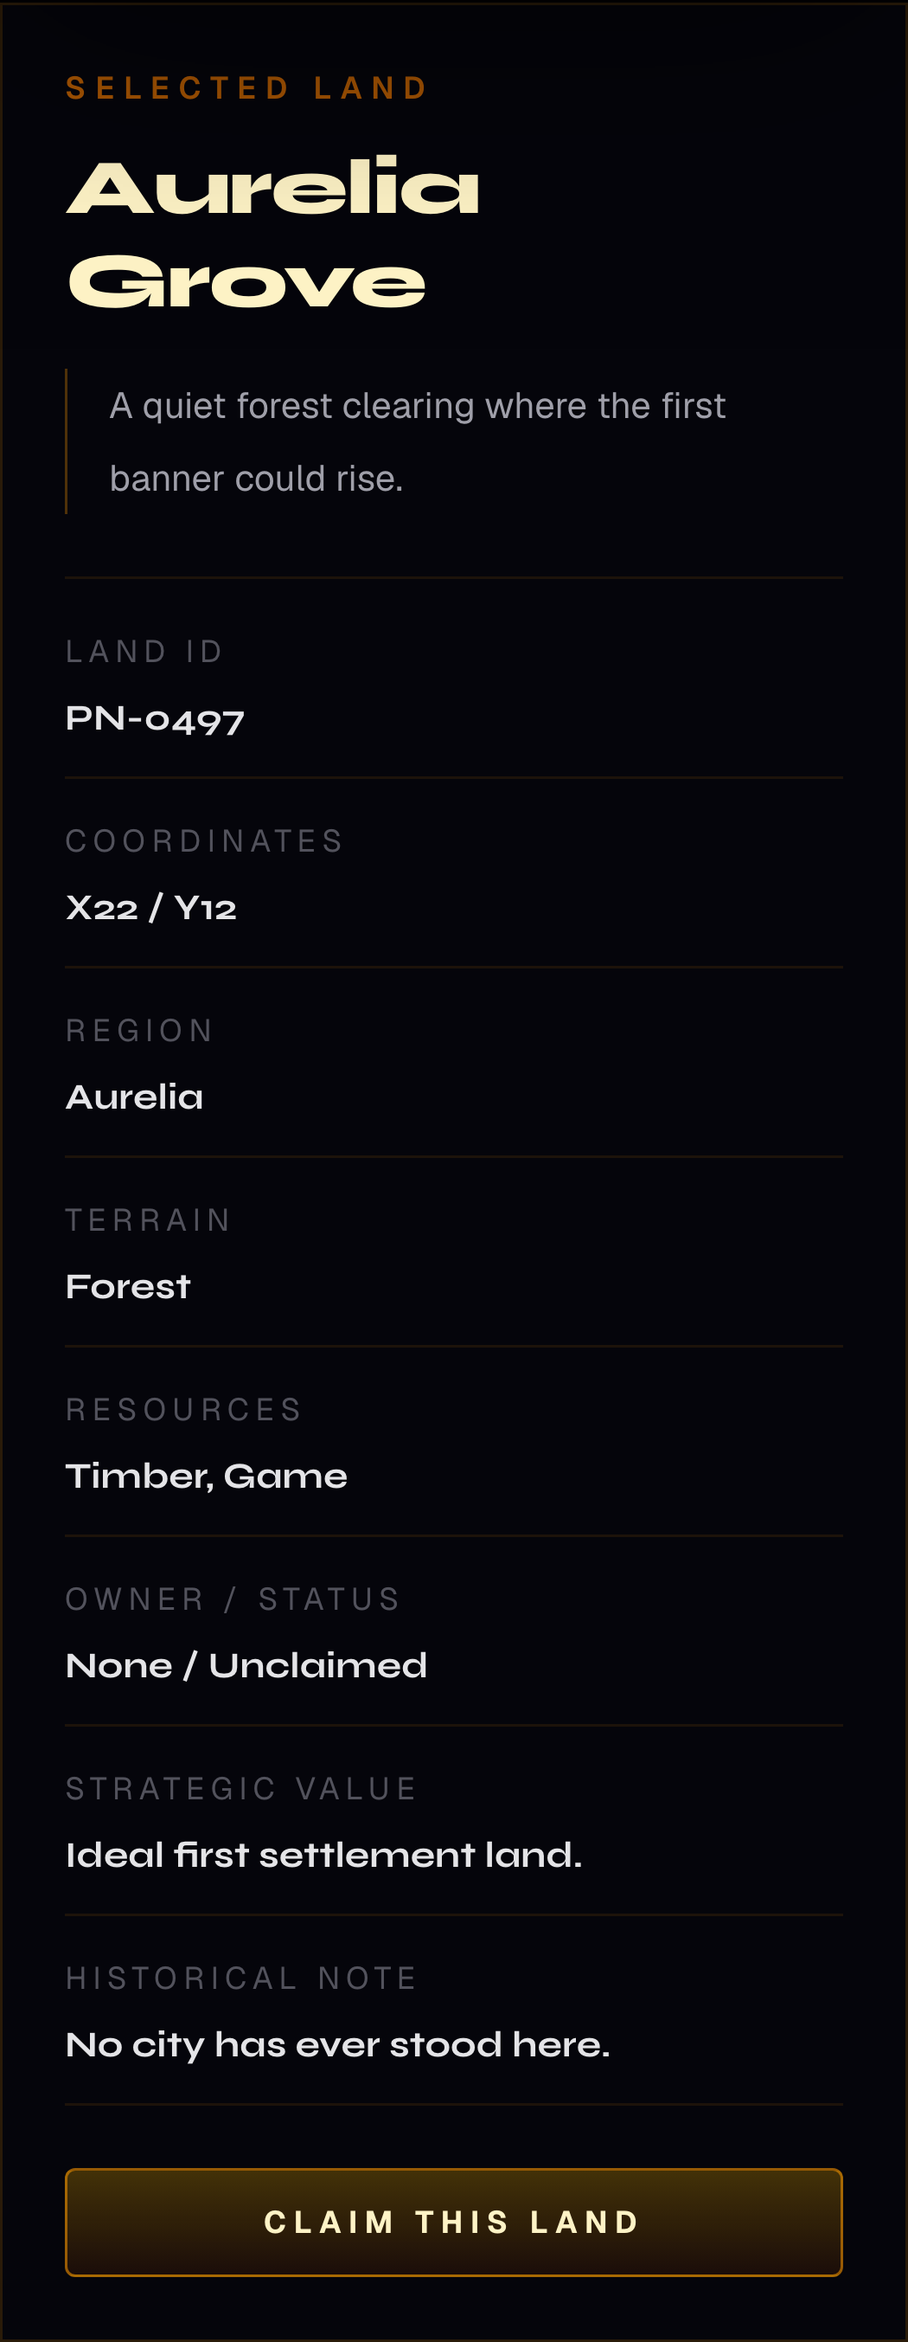
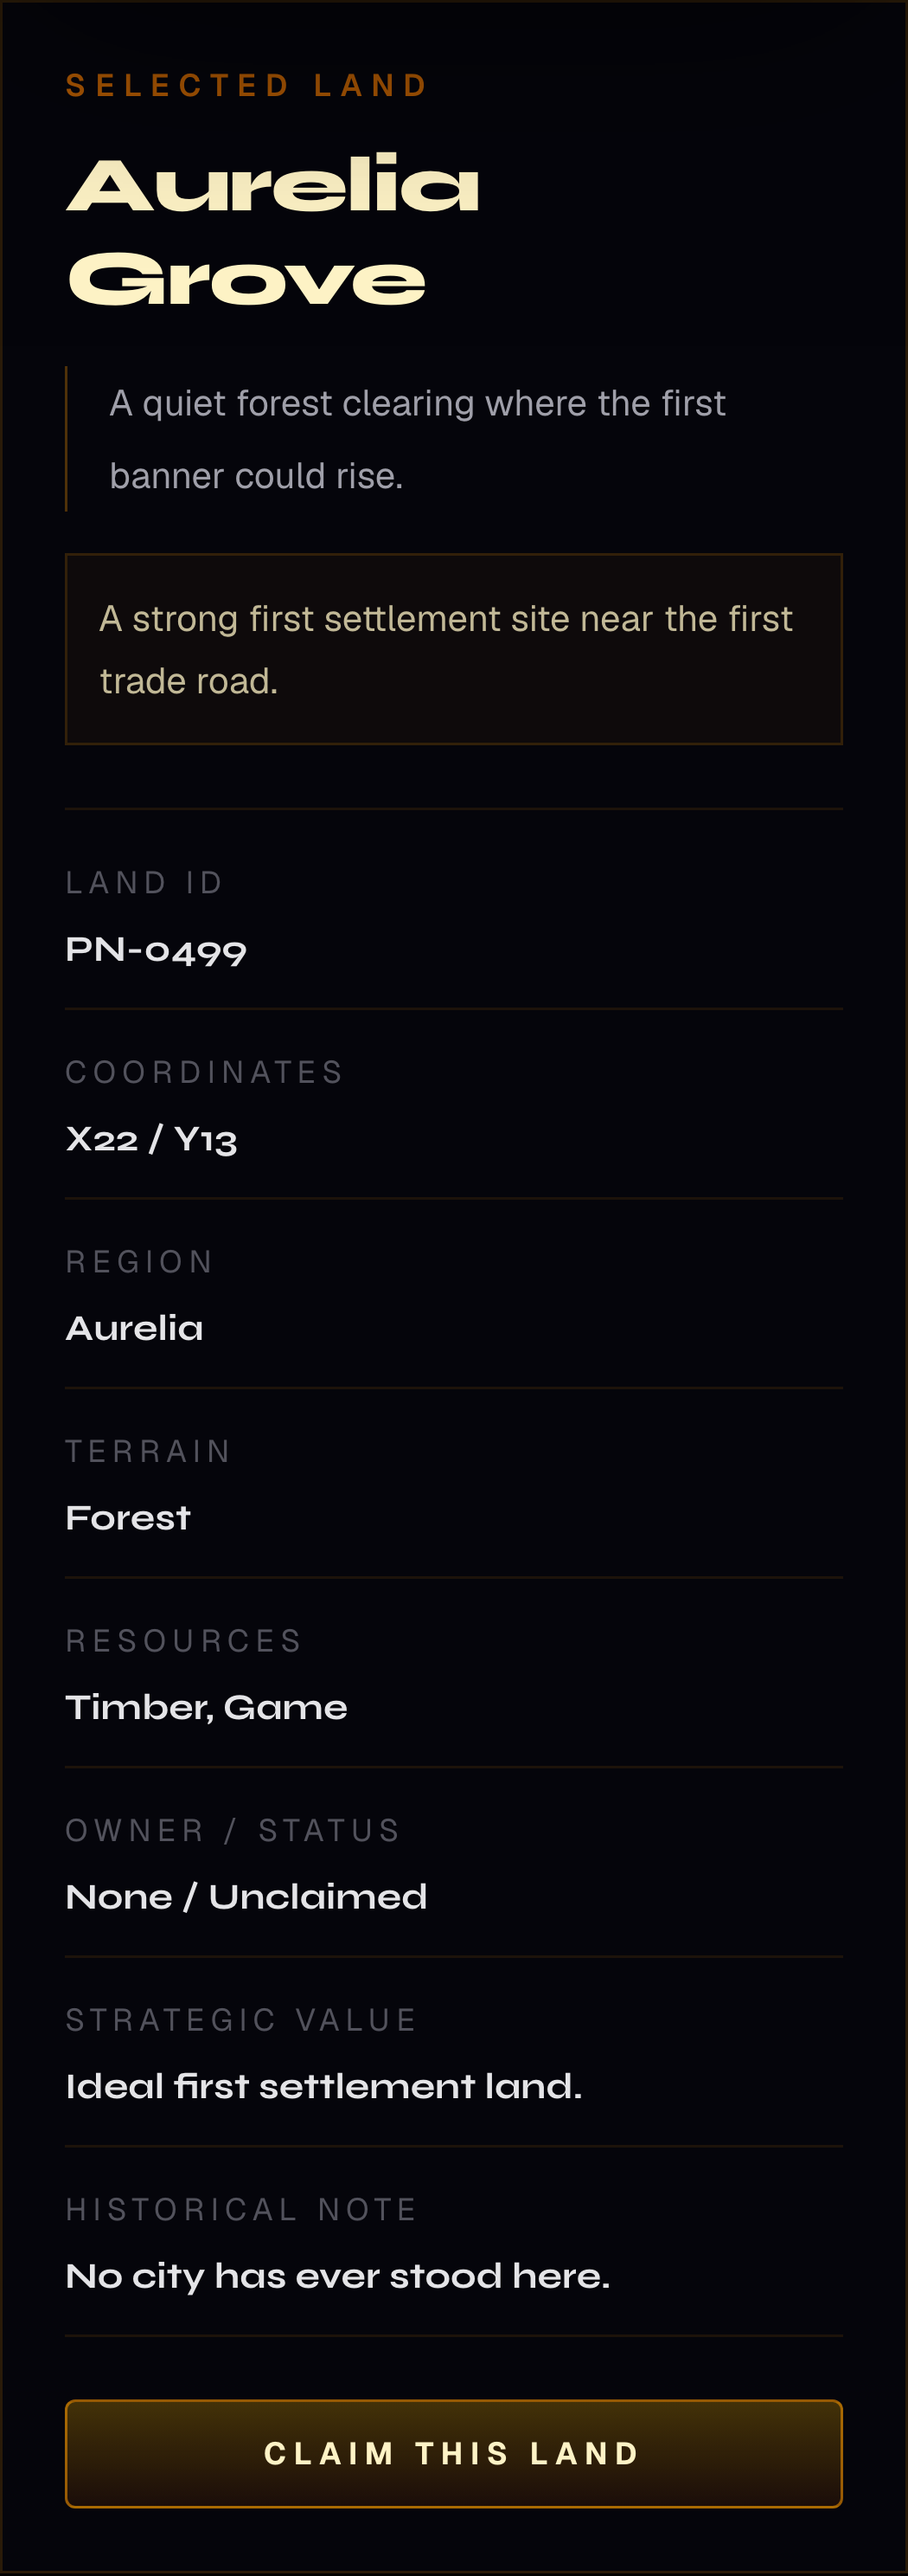
Upgrade world map atlas experience

diff --git a/app/world/page.tsx b/app/world/page.tsx
@@ -23,14 +23,15 @@ type MapTile = {
   resources: string[];
   landName: string;
   cinematicLine: string;
+  contextLine: string;
   strategicValue: string;
   historicalNote: string;
   starter: boolean;
   claimed: boolean;
 };
 
-const GRID_WIDTH = 22;
-const GRID_HEIGHT = 14;
+const GRID_WIDTH = 18;
+const GRID_HEIGHT = 12;
 
 const TERRAIN_RESOURCES: Record<Terrain, string[]> = {
   plains: ["Food", "Timber"],
@@ -71,11 +72,11 @@ const REGION_BORDER: Record<Region, string> = {
 };
 
 const REGION_LABELS = [
-  { id: "north-frontier", name: "North Frontier", left: "29%", top: "17%" },
-  { id: "crownlands", name: "Crownlands", left: "75%", top: "22%" },
-  { id: "aurelia", name: "Aurelia", left: "50%", top: "48%" },
-  { id: "iron-coast", name: "Iron Coast", left: "17%", top: "66%" },
-  { id: "ember-basin", name: "Ember Basin", left: "58%", top: "82%" },
+  { id: "north-frontier", name: "North Frontier", left: "28%", top: "20%" },
+  { id: "crownlands", name: "Crownlands", left: "78%", top: "26%" },
+  { id: "aurelia", name: "Aurelia", left: "52%", top: "51%" },
+  { id: "iron-coast", name: "Iron Coast", left: "18%", top: "72%" },
+  { id: "ember-basin", name: "Ember Basin", left: "63%", top: "84%" },
 ];
 
 const MAP_ROUTES = [
@@ -88,6 +89,42 @@ const MAP_RIVERS = [
   "M 404 38 C 388 112 420 168 386 230 S 328 330 366 430",
   "M 636 86 C 594 132 584 190 614 248 S 680 334 644 424",
 ];
+
+const MAP_CONTOURS = [
+  "M 42 86 C 146 42 292 76 366 130 S 548 188 720 138",
+  "M 74 360 C 178 302 304 332 418 284 S 598 230 734 268",
+  "M 216 458 C 310 392 404 406 508 374 S 646 340 722 386",
+];
+
+const SECTOR_REGION_ZONES = [
+  {
+    id: "north-frontier",
+    className: "left-[16%] top-[4%] h-[34%] w-[48%] border-zinc-300/10 bg-zinc-300/[0.045]",
+    clipPath: "polygon(0 18%, 34% 0, 88% 12%, 100% 68%, 62% 96%, 10% 78%)",
+  },
+  {
+    id: "iron-coast",
+    className: "left-[0%] top-[24%] h-[72%] w-[33%] border-slate-300/10 bg-slate-300/[0.04]",
+    clipPath: "polygon(0 0, 72% 8%, 100% 48%, 72% 98%, 8% 86%, 0 42%)",
+  },
+  {
+    id: "aurelia",
+    className: "left-[28%] top-[30%] h-[42%] w-[48%] border-amber-400/14 bg-amber-500/[0.055]",
+    clipPath: "polygon(10% 18%, 56% 0, 100% 24%, 84% 78%, 36% 100%, 0 64%)",
+  },
+  {
+    id: "crownlands",
+    className: "left-[63%] top-[8%] h-[48%] w-[34%] border-amber-200/14 bg-amber-200/[0.055]",
+    clipPath: "polygon(16% 8%, 80% 0, 100% 42%, 78% 90%, 22% 100%, 0 50%)",
+  },
+  {
+    id: "ember-basin",
+    className: "left-[36%] top-[62%] h-[34%] w-[58%] border-orange-300/10 bg-orange-300/[0.04]",
+    clipPath: "polygon(4% 24%, 42% 0, 98% 16%, 88% 82%, 42% 100%, 0 74%)",
+  },
+];
+
+const STARTER_COORDS = new Set(["8,5", "9,5", "10,5", "8,6", "10,6", "11,6"]);
 
 const ATLAS_REGIONS = [
   {
@@ -146,22 +183,22 @@ const ATLAS_LAND_MARKS = Array.from({ length: 260 }, (_, index) => {
 });
 
 function getRegion(x: number, y: number): Region {
-  if (x >= 15 && y <= 5) return "Crownlands";
-  if (y <= 3 || (x <= 7 && y <= 5)) return "North Frontier";
-  if (x <= 4 && y >= 5) return "Iron Coast";
-  if (y >= 10 || (x >= 10 && y >= 8)) return "Ember Basin";
+  if (x >= 13 && y <= 4) return "Crownlands";
+  if (y <= 2 || (x <= 6 && y <= 4)) return "North Frontier";
+  if (x <= 3 && y >= 3) return "Iron Coast";
+  if (y >= 9 || (x >= 9 && y >= 7)) return "Ember Basin";
   return "Aurelia";
 }
 
 function getTerrain(x: number, y: number, region: Region): Terrain {
-  if ((x === 9 && y === 6) || (x === 13 && y === 9) || (x === 17 && y === 4)) return "ruins";
-  if (x <= 2 || (region === "Iron Coast" && x <= 5 && y % 2 === 0)) return "coast";
-  if (y <= 1 || x >= 20) return "coast";
-  if (region === "Crownlands") return x > 17 && y < 4 ? "crownland" : "mountain";
-  if (region === "North Frontier") return y < 3 || (x + y) % 4 === 0 ? "mountain" : "forest";
-  if (region === "Iron Coast") return x <= 4 ? "coast" : "forest";
-  if (region === "Ember Basin") return (x + y) % 3 === 0 ? "basin" : "plains";
-  if ((x >= 7 && x <= 9 && y >= 3 && y <= 7) || (x === 12 && y === 5)) return "forest";
+  if ((x === 7 && y === 5) || (x === 11 && y === 8) || (x === 14 && y === 4)) return "ruins";
+  if (x <= 1 || (region === "Iron Coast" && x <= 3)) return "coast";
+  if (y === 0 || x === GRID_WIDTH - 1) return "coast";
+  if (region === "Crownlands") return x >= 15 && y <= 3 ? "crownland" : "mountain";
+  if (region === "North Frontier") return y <= 1 || x + y < 7 ? "mountain" : "forest";
+  if (region === "Iron Coast") return y >= 8 ? "coast" : "forest";
+  if (region === "Ember Basin") return y >= 10 || x >= 12 ? "basin" : "plains";
+  if ((x >= 5 && x <= 8 && y >= 3 && y <= 6) || (x >= 9 && x <= 11 && y === 4)) return "forest";
   return "plains";
 }
 
@@ -194,6 +231,17 @@ function getCinematicLine(region: Region, terrain: Terrain) {
   return "Unwritten ground on the edge of a rising world.";
 }
 
+function getContextLine(region: Region, terrain: Terrain, starter: boolean) {
+  if (starter) return "A strong first settlement site near the first trade road.";
+  if (terrain === "coast") return "A future port position on the edge of continental routes.";
+  if (terrain === "mountain") return "A defensive holdfast above contested frontier passes.";
+  if (terrain === "crownland") return "A prestige claim near the old political center.";
+  if (terrain === "basin") return "A resource pocket likely to matter when borders expand.";
+  if (terrain === "ruins") return "A risky claim with relic value and future conflict potential.";
+  if (region === "Aurelia") return "Central ground with clean expansion paths into nearby regions.";
+  return "Frontier land with room to grow into a regional power.";
+}
+
 function getStrategicValue(terrain: Terrain, starter: boolean, claimed: boolean) {
   if (claimed) return "Already controlled by another founder.";
   if (starter) return "Ideal first settlement land.";
@@ -220,7 +268,7 @@ function buildTiles(): MapTile[] {
     const coordinates = `X${x + 14} / Y${y + 8}`;
     const landId = `PN-${String(401 + index).padStart(4, "0")}`;
     const claimed = (x * 7 + y * 11) % 23 === 0;
-    const starter = !claimed && region === "Aurelia" && (terrain === "plains" || terrain === "forest");
+    const starter = !claimed && STARTER_COORDS.has(`${x},${y}`);
 
     return {
       id: `world-tile-${index}`,
@@ -233,6 +281,7 @@ function buildTiles(): MapTile[] {
       resources: TERRAIN_RESOURCES[terrain],
       landName: getLandName(region, terrain),
       cinematicLine: getCinematicLine(region, terrain),
+      contextLine: getContextLine(region, terrain, starter),
       strategicValue: getStrategicValue(terrain, starter, claimed),
       historicalNote: getHistoricalNote(region, terrain, claimed),
       starter,
@@ -521,33 +570,54 @@ export default function WorldPage() {
               <div className="flex flex-col justify-between gap-3 border-b border-amber-500/10 pb-4 sm:flex-row sm:items-end">
                 <div>
                   <p className="text-[10px] font-bold uppercase tracking-[0.28em] text-amber-600/80">
-                    Playable Sector
+                    Active Sector
                   </p>
                   <p className="text-xs font-semibold uppercase tracking-[0.3em] text-amber-200/80">
                     Sector 04 / Aurelia Frontier
                   </p>
                   <p className="mt-2 text-xs uppercase tracking-[0.22em] text-zinc-600">
-                    Choose one land inside the highlighted sector.
+                    216 visible lands from a 10,000-land world.
+                  </p>
+                  <p className="mt-3 text-sm leading-7 text-zinc-400">
+                    Choose a highlighted founder land to begin.
                   </p>
                 </div>
                 <div className="flex flex-wrap gap-3 text-[10px] uppercase tracking-[0.2em] text-zinc-600">
-                  <span className="border border-amber-500/15 px-2 py-1">216 lands</span>
+                  <span className="border border-amber-500/15 px-2 py-1">216 visible lands</span>
+                  <span className="border border-amber-500/15 px-2 py-1">10,000 total lands</span>
                   <span className="border border-amber-500/15 px-2 py-1">5 regions</span>
                 </div>
               </div>
 
               <div className="mt-5 overflow-x-auto pb-2">
-                <div className="relative min-w-[760px] overflow-hidden border border-amber-500/20 bg-[#030306] p-3 shadow-[inset_0_0_60px_rgba(0,0,0,0.55)]">
+                <div className="relative min-w-[680px] overflow-hidden border border-amber-500/20 bg-[#030306] p-3 shadow-[inset_0_0_60px_rgba(0,0,0,0.55)]">
                   <div
                     aria-hidden
                     className="pointer-events-none absolute inset-3 border border-amber-500/10"
                   />
+                  {SECTOR_REGION_ZONES.map((zone) => (
+                    <div
+                      key={zone.id}
+                      aria-hidden
+                      className={`pointer-events-none absolute border ${zone.className}`}
+                      style={{ clipPath: zone.clipPath }}
+                    />
+                  ))}
                   <svg
                     aria-hidden
                     className="pointer-events-none absolute inset-3 h-[calc(100%-1.5rem)] w-[calc(100%-1.5rem)]"
                     viewBox="0 0 760 484"
                     preserveAspectRatio="none"
                   >
+                    {MAP_CONTOURS.map((path) => (
+                      <path
+                        key={path}
+                        d={path}
+                        fill="none"
+                        stroke="rgba(245,222,179,0.08)"
+                        strokeWidth="2"
+                      />
+                    ))}
                     {MAP_RIVERS.map((path) => (
                       <path
                         key={path}
@@ -577,7 +647,7 @@ export default function WorldPage() {
                       {label.name}
                     </span>
                   ))}
-                  <div className="relative z-10 grid grid-cols-[repeat(22,minmax(0,1fr))] gap-px">
+                  <div className="relative z-10 grid grid-cols-[repeat(18,minmax(0,1fr))] gap-px">
                     {tiles.map((tile) => {
                       const tileOwnedByYou = demoState.claimedLandId === tile.id && demoState.claimedLand;
                       const tileClaimed = tile.claimed || tileOwnedByYou;
@@ -609,7 +679,7 @@ export default function WorldPage() {
                           }`}
                         >
                           {tile.starter && !tileClaimed ? (
-                            <span className="pointer-events-none absolute right-0.5 top-0.5 h-1.5 w-1.5 animate-pulse rounded-full bg-amber-300/80 shadow-[0_0_10px_rgba(251,191,36,0.45)]" />
+                            <span className="pointer-events-none absolute right-0.5 top-0.5 h-1.5 w-1.5 rounded-full bg-amber-300/90 shadow-[0_0_12px_rgba(251,191,36,0.55)]" />
                           ) : null}
                           {tileOwnedByYou ? (
                             <span className="absolute inset-0 flex items-center justify-center bg-amber-500/10 text-[8px] font-bold uppercase tracking-[0.2em] text-amber-100">
@@ -619,6 +689,20 @@ export default function WorldPage() {
                         </button>
                       );
                     })}
+                  </div>
+                  <div className="relative z-20 mt-3 grid gap-2 border border-amber-500/10 bg-[#030306]/85 p-3 text-[9px] uppercase tracking-[0.18em] text-zinc-500 sm:grid-cols-5">
+                    {[
+                      ["Founder land", "bg-amber-300/90 shadow-[0_0_10px_rgba(251,191,36,0.45)]"],
+                      ["Frontier", "bg-zinc-300/25"],
+                      ["Crownlands", "bg-amber-200/30"],
+                      ["Route", "bg-amber-400/50"],
+                      ["Unclaimed land", "bg-zinc-500/30"],
+                    ].map(([label, swatch]) => (
+                      <div key={label} className="flex items-center gap-2">
+                        <span className={`h-2 w-2 rounded-full ${swatch}`} />
+                        <span>{label}</span>
+                      </div>
+                    ))}
                   </div>
                 </div>
               </div>
@@ -636,6 +720,9 @@ export default function WorldPage() {
             </p>
             <p className="mt-4 border-l border-amber-500/30 pl-4 text-sm leading-7 text-zinc-400">
               {selectedTile.cinematicLine}
+            </p>
+            <p className="mt-4 border border-amber-500/15 bg-amber-500/[0.035] p-3 text-sm leading-6 text-amber-100/75">
+              {selectedTile.contextLine}
             </p>
 
             <div className="mt-6 space-y-4 border-t border-amber-500/10 pt-5 text-sm">

diff --git a/public/qa/latest/report.html b/public/qa/latest/report.html
@@ -27,7 +27,7 @@
     <header>
       <p class="eyebrow">Pixel Nations QA Report</p>
       <h1>Pixel Nations QA Report</h1>
-      <p>Generated: <code>2026-06-11T12:23:01.342Z</code></p>
+      <p>Generated: <code>2026-06-11T12:33:39.846Z</code></p>
       <p>App source: <code>existing local app</code></p>
     </header>
 
@@ -76,6 +76,14 @@
               <span>mobile</span>
               <span>/world</span>
             </div>
+            <h3>mobile-world.png</h3>
+            <a href="./screenshots/mobile-world.png"><img src="./screenshots/mobile-world.png" alt="mobile-world.png" /></a>
+          </article>
+<article class="card">
+            <div class="meta">
+              <span>mobile</span>
+              <span>/world</span>
+            </div>
             <h3>mobile-world-top.png</h3>
             <a href="./screenshots/mobile-world-top.png"><img src="./screenshots/mobile-world-top.png" alt="mobile-world-top.png" /></a>
           </article>
@@ -102,6 +110,14 @@
             </div>
             <h3>mobile-world-selected-land-panel.png</h3>
             <a href="./screenshots/mobile-world-selected-land-panel.png"><img src="./screenshots/mobile-world-selected-land-panel.png" alt="mobile-world-selected-land-panel.png" /></a>
+          </article>
+<article class="card">
+            <div class="meta">
+              <span>desktop</span>
+              <span>/world</span>
+            </div>
+            <h3>desktop-world.png</h3>
+            <a href="./screenshots/desktop-world.png"><img src="./screenshots/desktop-world.png" alt="desktop-world.png" /></a>
           </article>
 <article class="card">
             <div class="meta">
